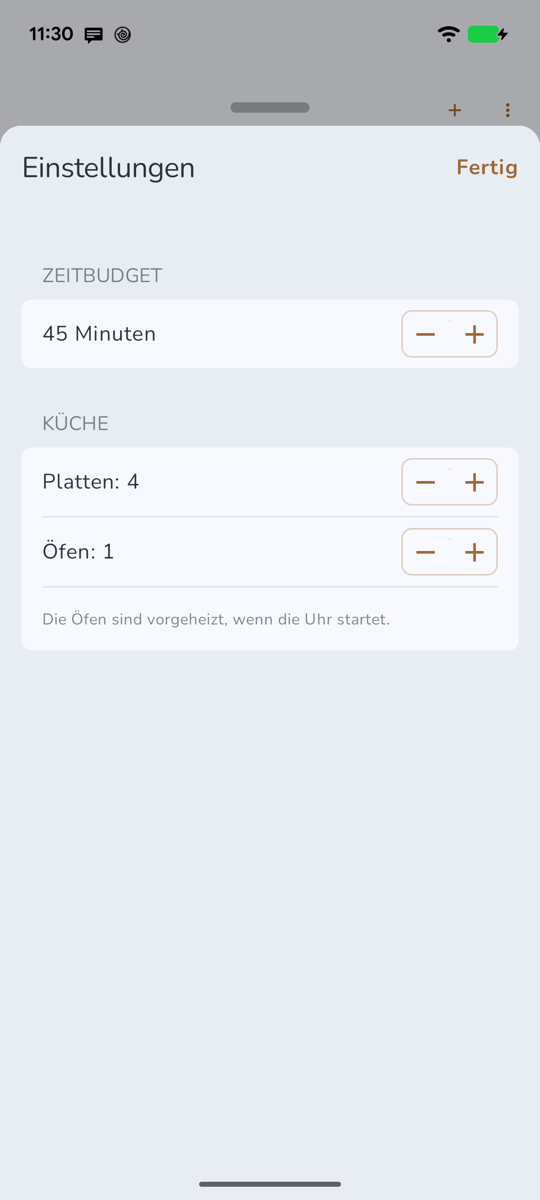
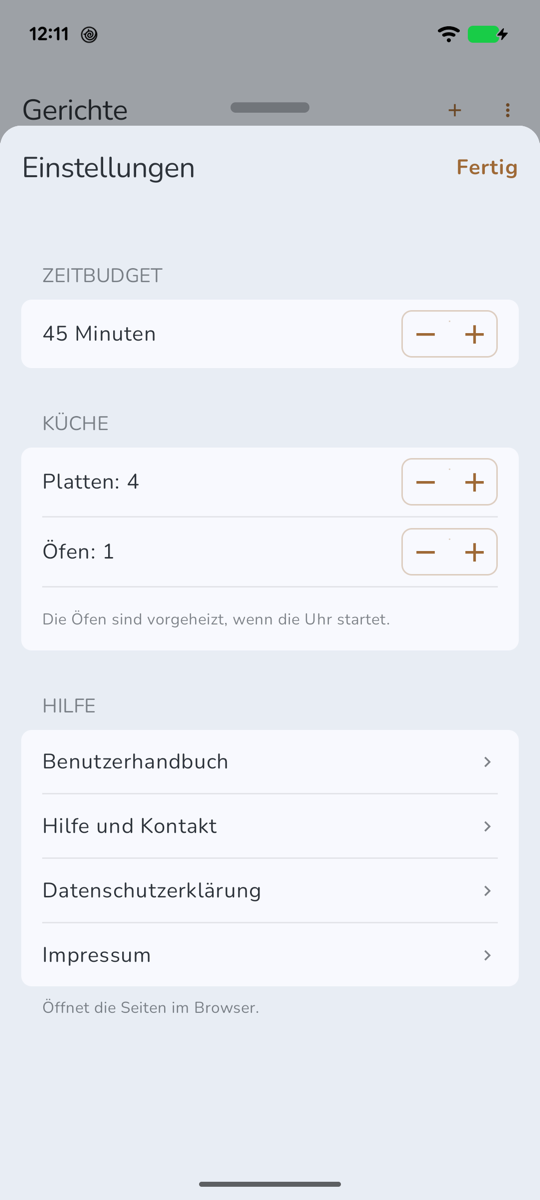
CookPlanner on iPhone and Android gets a Help section in its settings, as BakePlanner has, and BakePlanner on Android opens its own manual
- CookPlanner, both apps: Einstellungen → Hilfe opens CookPlanner's help
  page, its privacy policy and the legal notice in the browser, in the
  app's language; Android also its new manual. The paywall's privacy link
  follows the app's language too.
- HelpLinks (package) knows CookPlanner's pages and BakePlanner's Android
  manual; BakePlanner on Android opens that instead of chapter 19 of the
  iPhone manual.
- The CookPlanner Android manual describes the section.

diff --git a/BakePlannerCore/Sources/BakePlannerCore/HelpLinks.swift b/BakePlannerCore/Sources/BakePlannerCore/HelpLinks.swift
@@ -29,20 +29,13 @@ public enum HelpLinks {
         URL(string: "\(site)manual-\(languageCode).html")!
     }
 
-    /// The manual opened at its chapter "BakePlanner auf Android", which
-    /// names what differs from the iPhone. The Android app's help link.
-    public static var manualAndroidChapter: URL {
-        manualAndroidChapter(for: languageCode)
+    /// BakePlanner's own manual for the Android app.
+    public static var androidManual: URL {
+        androidManual(for: languageCode)
     }
 
-    public static func manualAndroidChapter(for languageCode: String) -> URL {
-        let anchor: String
-        switch languageCode {
-        case "de": anchor = "19-bakeplanner-auf-android"
-        case "fr": anchor = "19-bakeplanner-sur-android"
-        default: anchor = "19-bakeplanner-on-android"
-        }
-        return URL(string: "\(site)manual-\(languageCode).html#\(anchor)")!
+    public static func androidManual(for languageCode: String) -> URL {
+        URL(string: "\(site)android-manual-\(languageCode).html")!
     }
 
     public static var support: URL {
@@ -56,7 +49,38 @@ public enum HelpLinks {
     }
 
     /// The legal notice (Impressum) German law requires of a commercial app.
+    /// The same for both apps.
     public static var imprint: URL {
         URL(string: "\(site)impressum.html#\(languageCode)")!
+    }
+
+    // MARK: CookPlanner
+
+    /// CookPlanner's help page with its questions and the contact.
+    public static var cookPlannerSupport: URL {
+        cookPlannerSupport(for: languageCode)
+    }
+
+    public static func cookPlannerSupport(for languageCode: String) -> URL {
+        URL(string: "\(site)cookplanner.html#\(languageCode)")!
+    }
+
+    /// CookPlanner's own privacy policy, also the address for its store
+    /// listings.
+    public static var cookPlannerPrivacy: URL {
+        cookPlannerPrivacy(for: languageCode)
+    }
+
+    public static func cookPlannerPrivacy(for languageCode: String) -> URL {
+        URL(string: "\(site)cookplanner-privacy.html#\(languageCode)")!
+    }
+
+    /// The manual of CookPlanner's Android app.
+    public static var cookPlannerAndroidManual: URL {
+        cookPlannerAndroidManual(for: languageCode)
+    }
+
+    public static func cookPlannerAndroidManual(for languageCode: String) -> URL {
+        URL(string: "\(site)cookplanner-android-manual-\(languageCode).html")!
     }
 }

diff --git a/Android/CookPlannerAndroid/Sources/CookPlanner/ContentView.swift b/Android/CookPlannerAndroid/Sources/CookPlanner/ContentView.swift
@@ -347,12 +347,42 @@ struct KitchenSettingsView: View {
                         .font(.footnote)
                         .foregroundStyle(.secondary)
                 }
+                // The website's pages, in the app's language, in the browser —
+                // as BakePlanner has them. Privacy policy and legal notice have
+                // to be reachable from inside the app.
+                Section {
+                    helpLink(String(localized: "Benutzerhandbuch", bundle: .module), url: HelpLinks.cookPlannerAndroidManual)
+                    helpLink(String(localized: "Hilfe und Kontakt", bundle: .module), url: HelpLinks.cookPlannerSupport)
+                    helpLink(String(localized: "Datenschutzerklärung", bundle: .module), url: HelpLinks.cookPlannerPrivacy)
+                    helpLink(String(localized: "Impressum", bundle: .module), url: HelpLinks.imprint)
+                } header: {
+                    Text(String(localized: "Hilfe", bundle: .module))
+                } footer: {
+                    Text(String(localized: "Öffnet die Seiten im Browser.", bundle: .module))
+                }
             }
             .navigationTitle(String(localized: "Einstellungen", bundle: .module))
             .toolbar {
                 ToolbarItem(placement: .confirmationAction) {
                     Button(String(localized: "Fertig", bundle: .module)) { dismiss() }
                 }
+            }
+        }
+    }
+}
+
+extension KitchenSettingsView {
+    /// A row that opens `url` in the browser.
+    func helpLink(_ title: String, url: URL) -> some View {
+        Button {
+            Task { _ = await UIApplication.shared.open(url) }
+        } label: {
+            HStack {
+                Text(title)
+                    .foregroundStyle(Color.primary)
+                Spacer()
+                Image(systemName: "chevron.right")
+                    .foregroundStyle(.secondary)
             }
         }
     }

diff --git a/docs/website/cookplanner-android-manual-fr.html b/docs/website/cookplanner-android-manual-fr.html
@@ -371,7 +371,7 @@
 <h2 id="13-réglages">13. Réglages</h2>
 <p><strong>⋮ → Réglages</strong> dans la liste des plats :</p>
 <figure><img class="screenshot" src="images/cookplanner/android/einstellungen.png" alt="Les réglages" loading="lazy">
-<figcaption>Les réglages : temps imparti et cuisine.</figcaption>
+<figcaption>Les réglages : temps imparti, cuisine et aide.</figcaption>
 </figure>
 <div class="table-wrap"><table class="wide">
 <thead><tr><th>Réglage</th><th>Plage</th><th>Par défaut</th></tr></thead>
@@ -381,6 +381,8 @@
 <tr><td>Fours</td><td>0 à 3</td><td>1</td></tr>
 </tbody></table></div>
 <p>Chaque modification vaut aussitôt pour tous les verdicts et plans. Les fours sont considérés comme préchauffés quand le chrono démarre. L’application retient d’autres choix là où vous les faites : l’affichage du déroulé, l’horloge du mode cuisine, la lecture à voix haute, les portions et les coches de courses par plat, l’affichage et la note minimale sous Cuisiné, vos propres collections.</p>
+<h3 id="aide">Aide</h3>
+<p>La section <strong>Aide</strong> ouvre dans le navigateur ce <strong>manuel de l’utilisateur</strong>, la page <strong>Aide et contact</strong> avec les questions fréquentes et l’adresse e-mail, la <strong>politique de confidentialité</strong> et les <strong>mentions légales</strong> – chacun dans la langue de l’application.</p>
 <hr>
 <h2 id="14-sauvegarde-et-changement-dappareil">14. Sauvegarde et changement d’appareil</h2>
 <p>Sur Android, toutes les données se trouvent uniquement sur cet appareil. Une sauvegarde protège contre la perte et transporte vos plats vers un autre appareil – y compris un iPhone avec CookPlanner, le format est le même.</p>

diff --git a/docs/website/cookplanner-android-manual-de.html b/docs/website/cookplanner-android-manual-de.html
@@ -371,7 +371,7 @@
 <h2 id="13-einstellungen">13. Einstellungen</h2>
 <p><strong>⋮ → Einstellungen</strong> in der Gerichte-Liste:</p>
 <figure><img class="screenshot" src="images/cookplanner/android/einstellungen.png" alt="Die Einstellungen" loading="lazy">
-<figcaption>Die Einstellungen: Zeitbudget und Küche.</figcaption>
+<figcaption>Die Einstellungen: Zeitbudget, Küche und Hilfe.</figcaption>
 </figure>
 <div class="table-wrap"><table class="wide">
 <thead><tr><th>Einstellung</th><th>Bereich</th><th>Voreinstellung</th></tr></thead>
@@ -381,6 +381,8 @@
 <tr><td>Öfen</td><td>0 bis 3</td><td>1</td></tr>
 </tbody></table></div>
 <p>Jede Änderung gilt sofort für alle Urteile und Pläne. Die Öfen gelten als vorgeheizt, wenn die Uhr startet. Weitere Einstellungen merkt sich die App selbst, wo Du sie triffst: die Darstellung des Zeitplans, die Uhr des Kochmodus, Vorlesen, Portionen und Einkaufshaken je Gericht, die Darstellung und Mindestbewertung unter Gekocht, die eigenen Sammlungen.</p>
+<h3 id="hilfe">Hilfe</h3>
+<p>Der Abschnitt <strong>Hilfe</strong> öffnet im Browser dieses <strong>Benutzerhandbuch</strong>, die Seite <strong>Hilfe und Kontakt</strong> mit häufigen Fragen und der E-Mail-Adresse, die <strong>Datenschutzerklärung</strong> und das <strong>Impressum</strong> – jeweils in der Sprache der App.</p>
 <hr>
 <h2 id="14-sicherung-und-gerätewechsel">14. Sicherung und Gerätewechsel</h2>
 <p>Auf Android liegen alle Daten nur auf diesem Gerät. Eine Sicherung schützt vor Verlust und bringt Deine Gerichte auf ein anderes Gerät – auch auf ein iPhone mit CookPlanner, das Format ist dasselbe.</p>

diff --git a/BakePlannerCore/Tests/BakePlannerCoreTests/HelpLinksTests.swift b/BakePlannerCore/Tests/BakePlannerCoreTests/HelpLinksTests.swift
@@ -26,10 +26,17 @@ struct HelpLinksTests {
         #expect(HelpLinks.support.absoluteString.hasPrefix(HelpLinks.site + "index.html#"))
     }
 
-    @Test("The Android chapter is anchored in each language's manual")
-    func androidChapter() {
-        #expect(HelpLinks.manualAndroidChapter(for: "de").absoluteString == HelpLinks.site + "manual-de.html#19-bakeplanner-auf-android")
-        #expect(HelpLinks.manualAndroidChapter(for: "en").absoluteString == HelpLinks.site + "manual-en.html#19-bakeplanner-on-android")
-        #expect(HelpLinks.manualAndroidChapter(for: "fr").absoluteString == HelpLinks.site + "manual-fr.html#19-bakeplanner-sur-android")
+    @Test("BakePlanner's Android app opens its own manual, in each language")
+    func androidManual() {
+        #expect(HelpLinks.androidManual(for: "de").absoluteString == HelpLinks.site + "android-manual-de.html")
+        #expect(HelpLinks.androidManual(for: "en").absoluteString == HelpLinks.site + "android-manual-en.html")
+        #expect(HelpLinks.androidManual(for: "fr").absoluteString == HelpLinks.site + "android-manual-fr.html")
+    }
+
+    @Test("CookPlanner has its own help page, privacy policy and Android manual")
+    func cookPlanner() {
+        #expect(HelpLinks.cookPlannerSupport(for: "fr").absoluteString == HelpLinks.site + "cookplanner.html#fr")
+        #expect(HelpLinks.cookPlannerPrivacy(for: "de").absoluteString == HelpLinks.site + "cookplanner-privacy.html#de")
+        #expect(HelpLinks.cookPlannerAndroidManual(for: "en").absoluteString == HelpLinks.site + "cookplanner-android-manual-en.html")
     }
 }

diff --git a/docs/website/cookplanner-android-manual-en.html b/docs/website/cookplanner-android-manual-en.html
@@ -371,7 +371,7 @@
 <h2 id="13-settings">13. Settings</h2>
 <p><strong>⋮ → Settings</strong> in the dish list:</p>
 <figure><img class="screenshot" src="images/cookplanner/android/einstellungen.png" alt="The settings" loading="lazy">
-<figcaption>The settings: time budget and kitchen.</figcaption>
+<figcaption>The settings: time budget, kitchen and help.</figcaption>
 </figure>
 <div class="table-wrap"><table class="wide">
 <thead><tr><th>Setting</th><th>Range</th><th>Default</th></tr></thead>
@@ -381,6 +381,8 @@
 <tr><td>Ovens</td><td>0 to 3</td><td>1</td></tr>
 </tbody></table></div>
 <p>Every change applies at once to all verdicts and plans. The ovens count as preheated when the clock starts. The app remembers further choices where you make them: the view of the timeline, the cook-mode clock, read aloud, servings and shopping ticks per dish, the view and minimum rating under Cooked, your own collections.</p>
+<h3 id="help">Help</h3>
+<p>The <strong>Help</strong> section opens in your browser this <strong>user manual</strong>, the <strong>Help and contact</strong> page with frequent questions and the e-mail address, the <strong>privacy policy</strong> and the <strong>legal notice</strong> – each in the app's language.</p>
 <hr>
 <h2 id="14-backup-and-moving-to-another-device">14. Backup and moving to another device</h2>
 <p>On Android all data lives on this device only. A backup protects against loss and takes your dishes to another device – also to an iPhone with CookPlanner; the format is the same.</p>

diff --git a/CookPlanner/CookPlanner/DishListView.swift b/CookPlanner/CookPlanner/DishListView.swift
@@ -685,6 +685,25 @@ struct KitchenSettingsView: View {
                 } footer: {
                     Text("Wenn ein Topf oder der Ofen die Zeit erreicht hat, klingelt ein Wecker – auch wenn das iPhone stumm ist oder ein Fokus läuft. Ohne Wecker gibt es eine Mitteilung.")
                 }
+                // The help page, the privacy policy and the legal notice live
+                // on the website, so they can be corrected without an update;
+                // they open in Safari, as in BakePlanner. Privacy policy and
+                // legal notice have to be reachable from inside the app.
+                Section {
+                    Link(destination: HelpLinks.cookPlannerSupport) {
+                        Label("Hilfe und Kontakt", systemImage: "questionmark.circle")
+                    }
+                    Link(destination: HelpLinks.cookPlannerPrivacy) {
+                        Label("Datenschutzerklärung", systemImage: "hand.raised")
+                    }
+                    Link(destination: HelpLinks.imprint) {
+                        Label("Impressum", systemImage: "building.columns")
+                    }
+                } header: {
+                    Text("Hilfe")
+                } footer: {
+                    Text("Öffnet die Seiten im Browser.")
+                }
             }
             .fileImporter(isPresented: $choosingFile, allowedContentTypes: [.cookPlannerDishes, .json]) { result in
                 if case .success(let url) = result {

diff --git a/CookPlanner/CookPlanner/CookProPaywallView.swift b/CookPlanner/CookPlanner/CookProPaywallView.swift
@@ -167,7 +167,7 @@ struct CookProPaywallView: View {
                 } footer: {
                     VStack(alignment: .leading, spacing: 6) {
                         Text("Der Kauf gilt auf allen Geräten mit Deinem Apple-Konto. Alles, was Du zum Planen und Kochen gegen die Uhr brauchst, bleibt kostenlos: Gerichte, Plan, Kochmodus mit Wecker, Einkaufsliste, Verlauf und iCloud-Abgleich.")
-                        Link("Datenschutzerklärung", destination: URL(string: "https://hans-peter60.github.io/bakeplanner/cookplanner-privacy.html")!)
+                        Link("Datenschutzerklärung", destination: HelpLinks.cookPlannerPrivacy)
                     }
                 }
             }

diff --git a/Android/BakePlannerAndroid/Sources/BakePlanner/SettingsView.swift b/Android/BakePlannerAndroid/Sources/BakePlanner/SettingsView.swift
@@ -225,8 +225,8 @@ struct SettingsView: View {
             // as on the iPhone. Privacy policy and legal notice have to be
             // reachable from inside the app.
             Section {
-                // Opened at the chapter that says what differs on Android.
-                helpLink("Benutzerhandbuch", url: HelpLinks.manualAndroidChapter)
+                // The manual written for the Android app.
+                helpLink("Benutzerhandbuch", url: HelpLinks.androidManual)
                 helpLink("Hilfe und Kontakt", url: HelpLinks.support)
                 helpLink("Datenschutzerklärung", url: HelpLinks.privacy)
                 helpLink("Impressum", url: HelpLinks.imprint)

diff --git a/docs/cookplanner/Android-Manuel-utilisateur.md b/docs/cookplanner/Android-Manuel-utilisateur.md
@@ -440,7 +440,7 @@ Avec **Avec les heures** et un **Départ**, de vraies heures figurent sur la feu
 
 ![Les réglages](images/android/einstellungen.png)
 
-*Les réglages : temps imparti et cuisine.*
+*Les réglages : temps imparti, cuisine et aide.*
 
 | Réglage | Plage | Par défaut |
 |---|---|---|
@@ -449,6 +449,10 @@ Avec **Avec les heures** et un **Départ**, de vraies heures figurent sur la feu
 | Fours | 0 à 3 | 1 |
 
 Chaque modification vaut aussitôt pour tous les verdicts et plans. Les fours sont considérés comme préchauffés quand le chrono démarre. L’application retient d’autres choix là où vous les faites : l’affichage du déroulé, l’horloge du mode cuisine, la lecture à voix haute, les portions et les coches de courses par plat, l’affichage et la note minimale sous Cuisiné, vos propres collections.
+
+### Aide
+
+La section **Aide** ouvre dans le navigateur ce **manuel de l’utilisateur**, la page **Aide et contact** avec les questions fréquentes et l’adresse e-mail, la **politique de confidentialité** et les **mentions légales** – chacun dans la langue de l’application.
 
 ---
 

diff --git a/docs/cookplanner/Android-User-Manual.md b/docs/cookplanner/Android-User-Manual.md
@@ -440,7 +440,7 @@ With **With clock times** and a **Start**, real times appear on the sheet (“St
 
 ![The settings](images/android/einstellungen.png)
 
-*The settings: time budget and kitchen.*
+*The settings: time budget, kitchen and help.*
 
 | Setting | Range | Default |
 |---|---|---|
@@ -449,6 +449,10 @@ With **With clock times** and a **Start**, real times appear on the sheet (“St
 | Ovens | 0 to 3 | 1 |
 
 Every change applies at once to all verdicts and plans. The ovens count as preheated when the clock starts. The app remembers further choices where you make them: the view of the timeline, the cook-mode clock, read aloud, servings and shopping ticks per dish, the view and minimum rating under Cooked, your own collections.
+
+### Help
+
+The **Help** section opens in your browser this **user manual**, the **Help and contact** page with frequent questions and the e-mail address, the **privacy policy** and the **legal notice** – each in the app's language.
 
 ---
 
